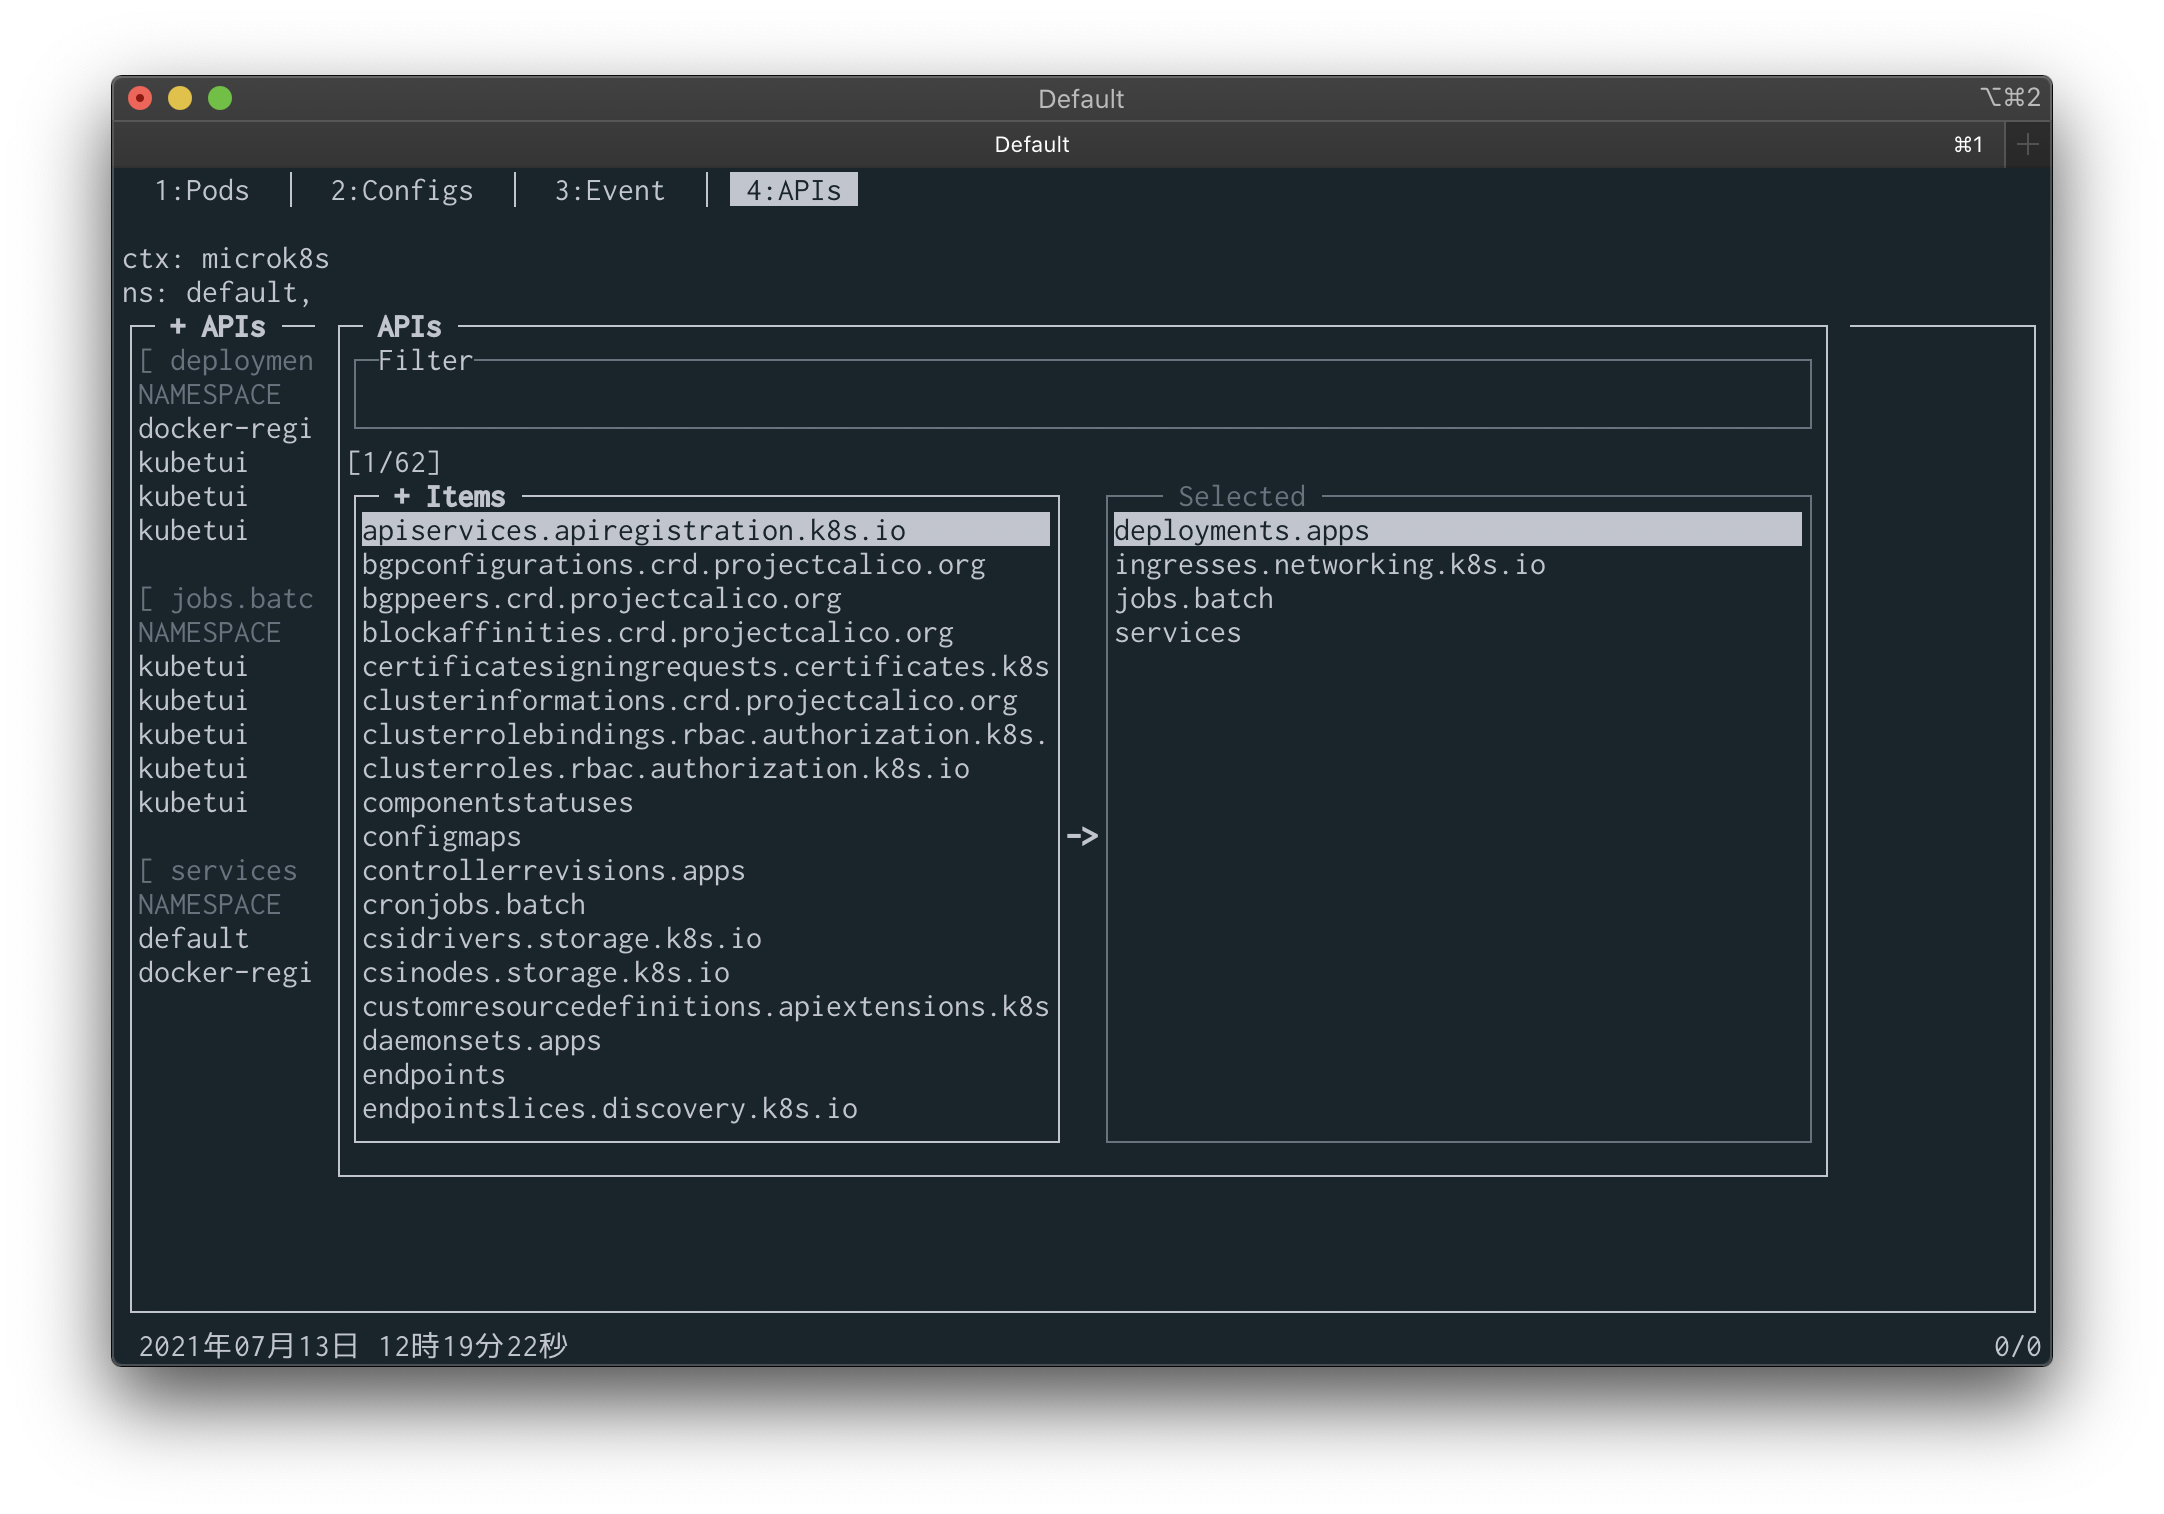
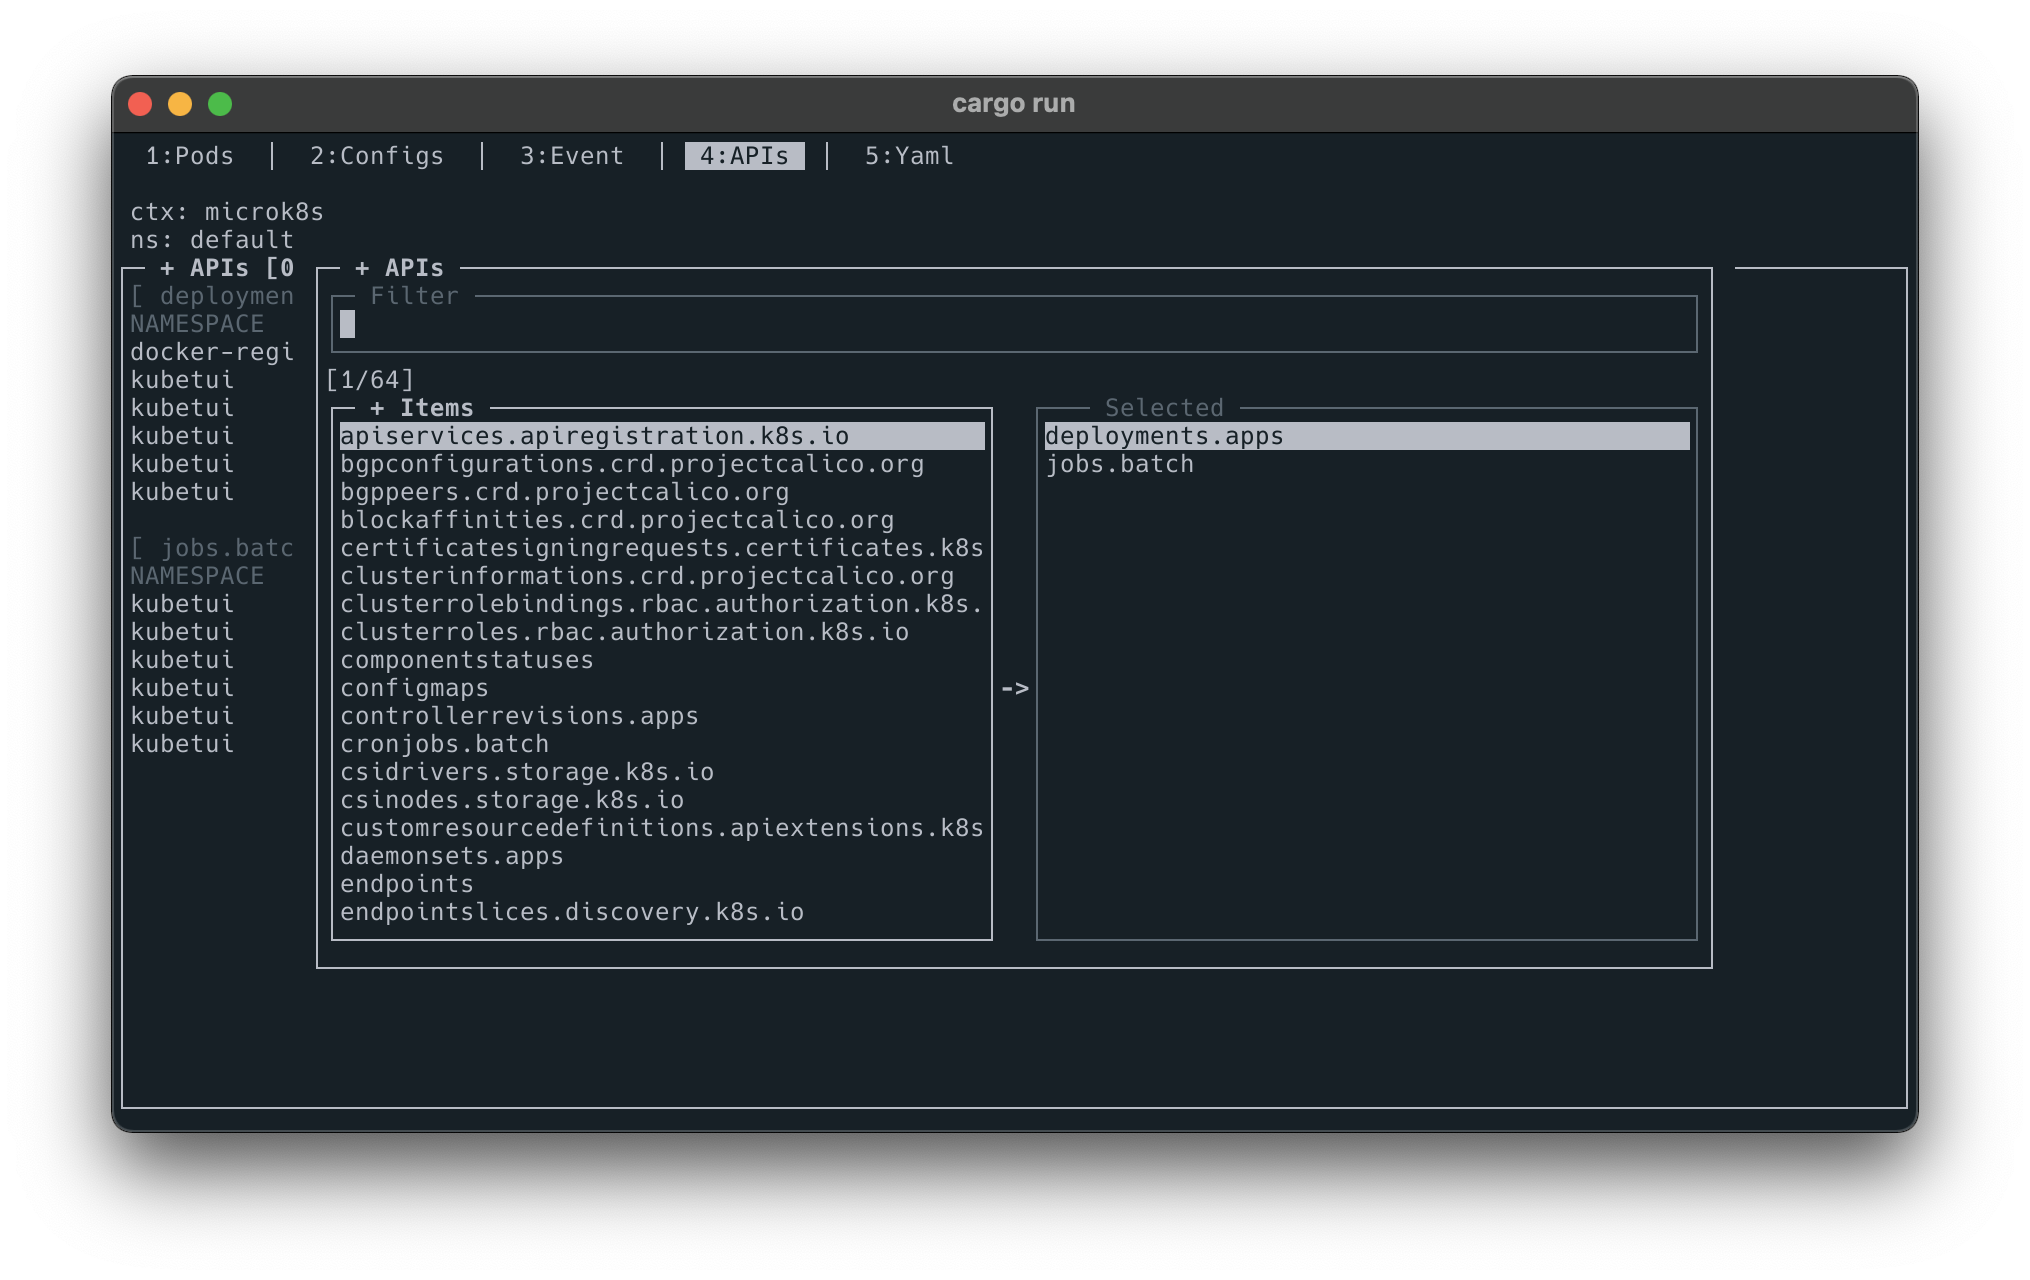
docs: スクショの更新。

Changed region(s): [[0.031, 0.0312, 0.9621, 0.9375], [0.4966, 0.5312, 0.5276, 0.5625]]

diff --git a/README.md b/README.md
@@ -5,7 +5,7 @@
 
 Kubernetes resource watching tool
 
-![](screenshots/example.png)
+![](screenshots/pods-log.png)
 
 ## Features
 
@@ -24,14 +24,10 @@ Kubernetes resource watching tool
 USAGE:
     kubetui [OPTIONS]
 
-FLAGS:
-    -h, --help       Prints help information
-    -V, --version    Prints version information
-
 OPTIONS:
-    -s, --split-mode <direction>
-            Window split mode [default: vertical]
-            [possible values: vertical, v, horizontal, h]
+    -h, --help                       Print help information
+    -s, --split-mode <SPLIT_MODE>    Window split mode [default: vertical] [possible values: v, h, vertical, horizontal]
+    -V, --version                    Print version information
 ```
 
 ## Key Bindings
@@ -44,10 +40,10 @@ General
 | <kbd>c</kbd>                         | Open the popup for selecting the context                                       |
 | <kbd>Shift+n</kbd>                   | Open the popup for selecting multiple namespaces                               |
 | <kbd>f</kbd>, <kbd>/</kbd>           | Open the popup for selecting multiple api-resources (**only APIs / Yaml tab**) |
-| <kbd>Tab</kbd>, <kbd>Shift+Tab</kbd> | Change the focus of view within the active tab                          |
-| <kbd>number</kbd>                    | Switch the tab (number: 1~4)                                            |
-| <kbd>ESC</kbd>                       | Close the window, or terminate the app (when the popup is not opening)  |
-| <kbd>q</kbd>                         | Terminate the app                                                       |
+| <kbd>Tab</kbd>, <kbd>Shift+Tab</kbd> | Change the focus of view within the active tab                                 |
+| <kbd>number</kbd>                    | Switch the tab (number: 1~4)                                                   |
+| <kbd>ESC</kbd>                       | Close the window, or terminate the app (when the popup is not opening)         |
+| <kbd>q</kbd>                         | Terminate the app                                                              |
 
 View control
 
@@ -107,6 +103,10 @@ Events
 APIs
 
 ![](screenshots/apis.png)
+
+Yaml
+
+![](screenshots/yaml.png)
 
 ### Select Items
 
